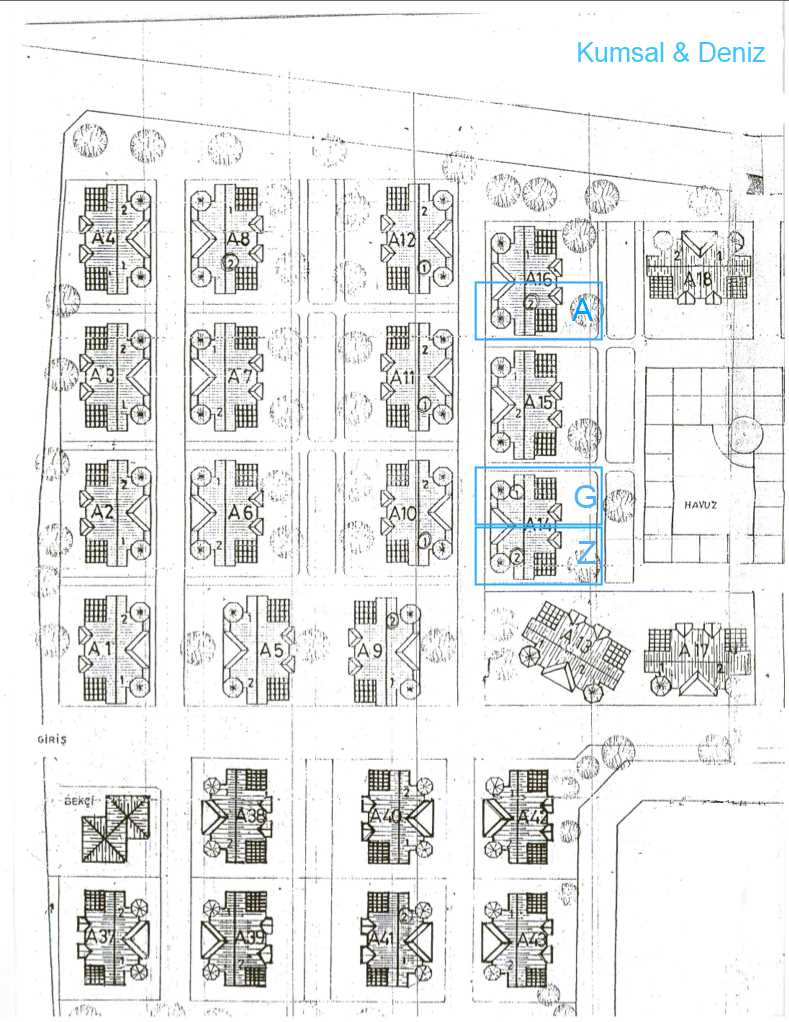
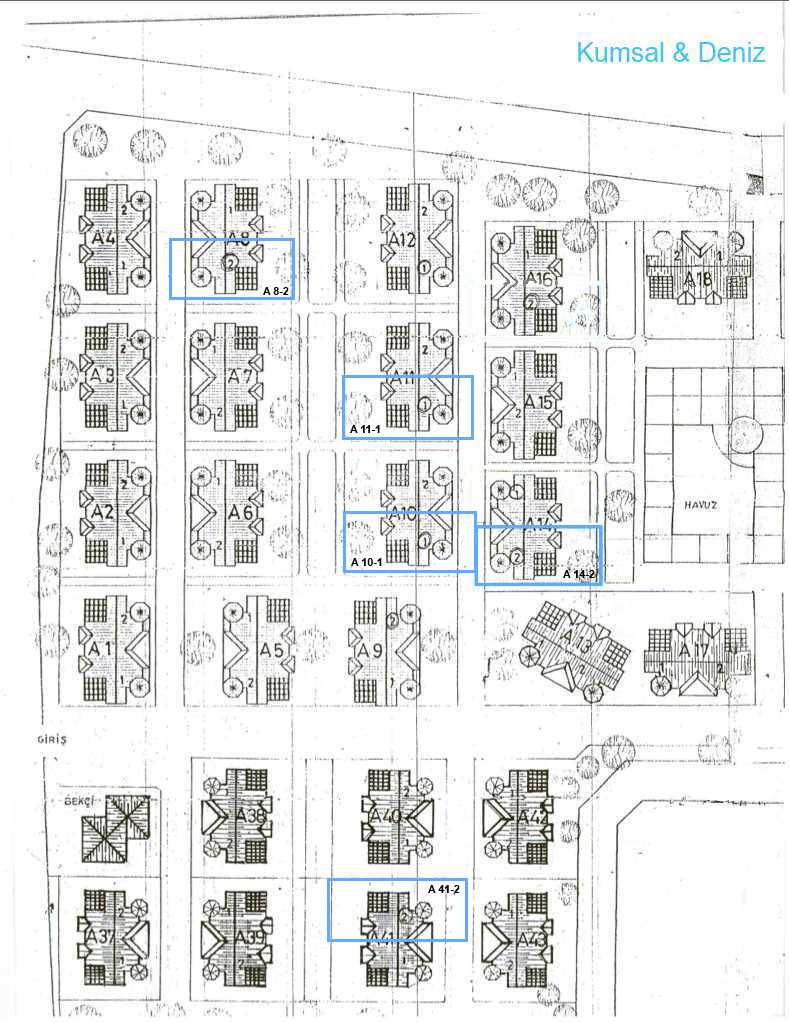
adding new houses and prices

diff --git a/index.html b/index.html
@@ -23,11 +23,11 @@
                     <div class="header-content">
                         <div class="header-content-position">
                             <h1>
-                                KARADENİZ KIYISINDA 80 KONUTLUK BİR CENNET
+                                KARADENİZ KIYISINDA 86 KONUTLUK BİR CENNET
                             </h1>
                             <a id="refer-people" class="button" href="./reference.html">10.000 TL KAZANMAK İSTER MİSİNİZ ?</a>  
                             <p>
-                                İstanbul ve Ankara’ya yakın mesafede, Karadeniz kıyısında, yeşilliği, yarı olimpik havuzu ve sosyal tesisleriyle 80 konutluk bir cennet
+                                İstanbul ve Ankara’ya yakın mesafede, Karadeniz kıyısında, yeşilliği, yarı olimpik havuzu ve sosyal tesisleriyle 86 konutluk bir cennet
                             </p>
                             <a id="goto-article" class="button" href="#start">
                                 Detaylar
@@ -48,12 +48,11 @@
                     <section class="segment text-segment clearfix  aside">
                         <div class="only-text">
                             <h2>Genel Bilgiler</h2>
-                            <p>Buraya madde madde genel bilgiler gelecek.</p>
                             <p>
-                                <ul>
-                                    <li>Ev sayısı</li>
-                                    <li>Evlerle ilgili temel bilgiler. Kac metrekare. Kac oda, kac banyo vs.</li>
-                                    <li>Site ile ilgili temel bilgiler. Icinde neler var, kac metre kare uzerine kurulmus. Park kolayligi vs.</li>
+                                <ul style="text-align: justify;">
+                                    <li>Başkent Sitesi'nde 86 adet villa bulunmaktadır.</li>
+                                    <li>Evler dublex olup içlerinde 3 yatak odası, 3 banyo, 1 salon, 1 kiler ve 1 mutfak bulunmaktadır.</li>
+                                    <li>Site içerisinde 1 yarı olimpik havuz ve sosyal tesis, 1 ortak futbol basketbol ve tenis sahası, jimnastik aletlerinin bulundugu bir alan, 4 adet çardak altı sohbet köşesi, 1 çocuk parkı bulunmaktadir. Her villanın çevresinde 3 adet otomobilin park edebilecegi alan mevcuttur.</li>
                                 </ul>
                             </p>
                         </div>
@@ -211,7 +210,7 @@
                         <div class="only-text">
                             <h2>Satılık Villalar</h2>
                             <p>
-                                Sahibini bekleyen 7 adet villamız kaldı. Aşağıda yer alan kuşbakışı site haritasında işaretlenmiş villaları görebilirsiniz. Daha detaylı bilgi almak istediginiz yerin üzerini tıklayabilirsiniz.
+                                Sahibini bekleyen 5 adet villamız kaldı. Aşağıda yer alan kuşbakışı site haritasında işaretlenmiş villaları görebilirsiniz. Daha detaylı bilgi almak istediginiz yerin üzerini tıklayabilirsiniz.
                             </p>
                         </div>
                     </section>
@@ -219,42 +218,61 @@
                         <div class="only-image fit-column">
                             <img id="BaskentMapImage" alt="Baskent Sitesi Havuz ve Bahce" title="Baskent Sitesi Havuz ve Bahce" src="./baskent/map.jpg" usemap="#image-maps">
                             <map name="image-maps" id="BaskentMap">
-                                <area shape="rect" coords="476,282,602,339" alt="" title="" target="_self" href="#villa_abant" />
-                                <area shape="rect" coords="476,466,602,525" alt="" title="" target="_self" href="#villa_goynuk" />
-                                <area shape="rect" coords="474,527,604,584" alt="" title="" target="_self" href="#villa_zigana" />
+                                <area shape="rect" coords="171,239,294,299" alt="" title="" target="_self" href="#A8-2" />
+                                <area shape="rect" coords="343,375,474,440" alt="" title="" target="_self" href="#A11-1" />
+                                <area shape="rect" coords="344,512,475,573" alt="" title="" target="_self" href="#A10-1" />
+                                <area shape="rect" coords="475,527,603,586" alt="" title="" target="_self" href="#A14-2" />
+                                <area shape="rect" coords="330,880,467,939" alt="" title="" target="_self" href="#A41-2" />
                             </map>
                         </div>
                     </section>
-                    <section id="villa_abant" class="segment text-segment clearfix  aside">
+                    <section id="A8-2" class="segment text-segment clearfix  aside">
                         <div class="only-text">
-                            <h2>Villa Abant</h2>
+                            <h2>A8-2</h2>
                             <p>
                                 <ul>
-                                    <li>Villa ile ilgili bilgiler (fiyat dahil)</li>
-                                    <li>Villanın ve villadan cekilmiş fotoğraflar</li>
+                                    <li>230 bin TL</li>
                                 </ul>
                             </p>
                         </div>
                     </section>
                     
-                    <section id="villa_goynuk" class="segment text-segment clearfix  aside">
+                    <section id="A11-1" class="segment text-segment clearfix  aside">
                         <div class="only-text">
-                            <h2>Villa Göynük</h2>
+                            <h2>A11-1</h2>
                             <p>
                                 <ul>
-                                    <li>Villa ile ilgili bilgiler (fiyat dahil)</li>
-                                    <li>Villanın ve villadan cekilmiş fotoğraflar</li>
+                                    <li>200 bin TL</li>
                                 </ul>
                             </p>
                         </div>
                     </section>
-                    <section id="villa_zigana" class="segment text-segment clearfix  aside">
+                    <section id="A10-1" class="segment text-segment clearfix  aside">
                         <div class="only-text">
-                            <h2>Villa Zigana</h2>
+                            <h2>A10-1</h2>
                             <p>
                                 <ul>
-                                    <li>Villa ile ilgili bilgiler (fiyat dahil)</li>
-                                    <li>Villanın ve villadan cekilmiş fotoğraflar</li>
+                                    <li>200 bin TL</li>
+                                </ul>
+                            </p>
+                        </div>
+                    </section>
+                    <section id="A14-2" class="segment text-segment clearfix  aside">
+                        <div class="only-text">
+                            <h2>A14-2</h2>
+                            <p>
+                                <ul>
+                                    <li>230 bin TL</li>
+                                </ul>
+                            </p>
+                        </div>
+                    </section>
+                    <section id="A41-2" class="segment text-segment clearfix  aside">
+                        <div class="only-text">
+                            <h2>A41-2</h2>
+                            <p>
+                                <ul>
+                                    <li>165 bin TL</li>
                                 </ul>
                             </p>
                         </div>
